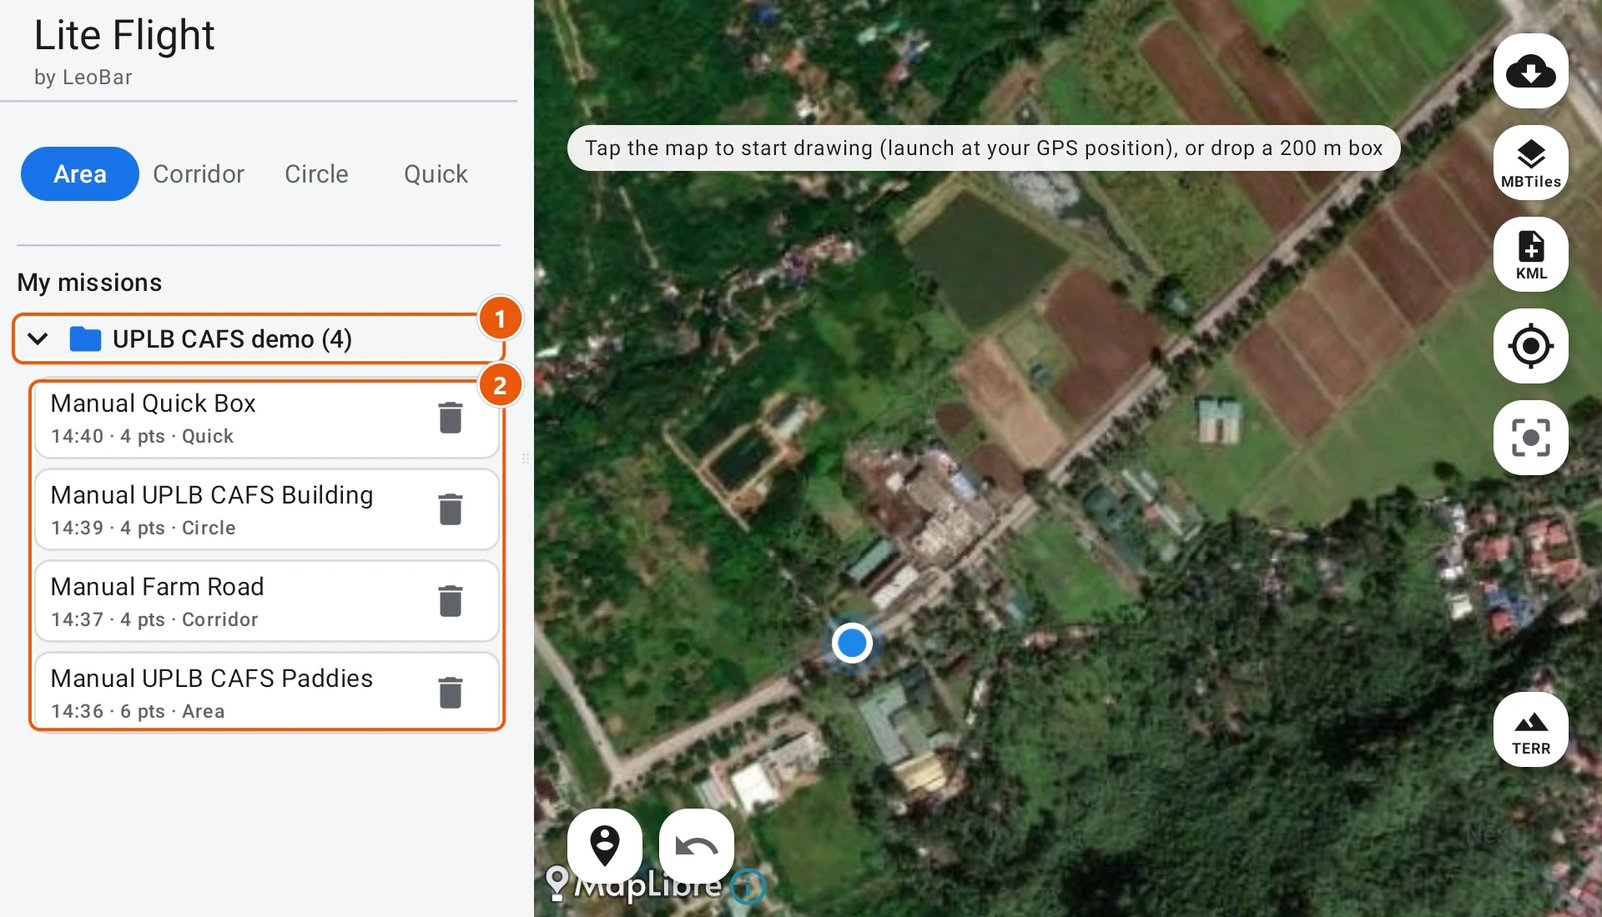
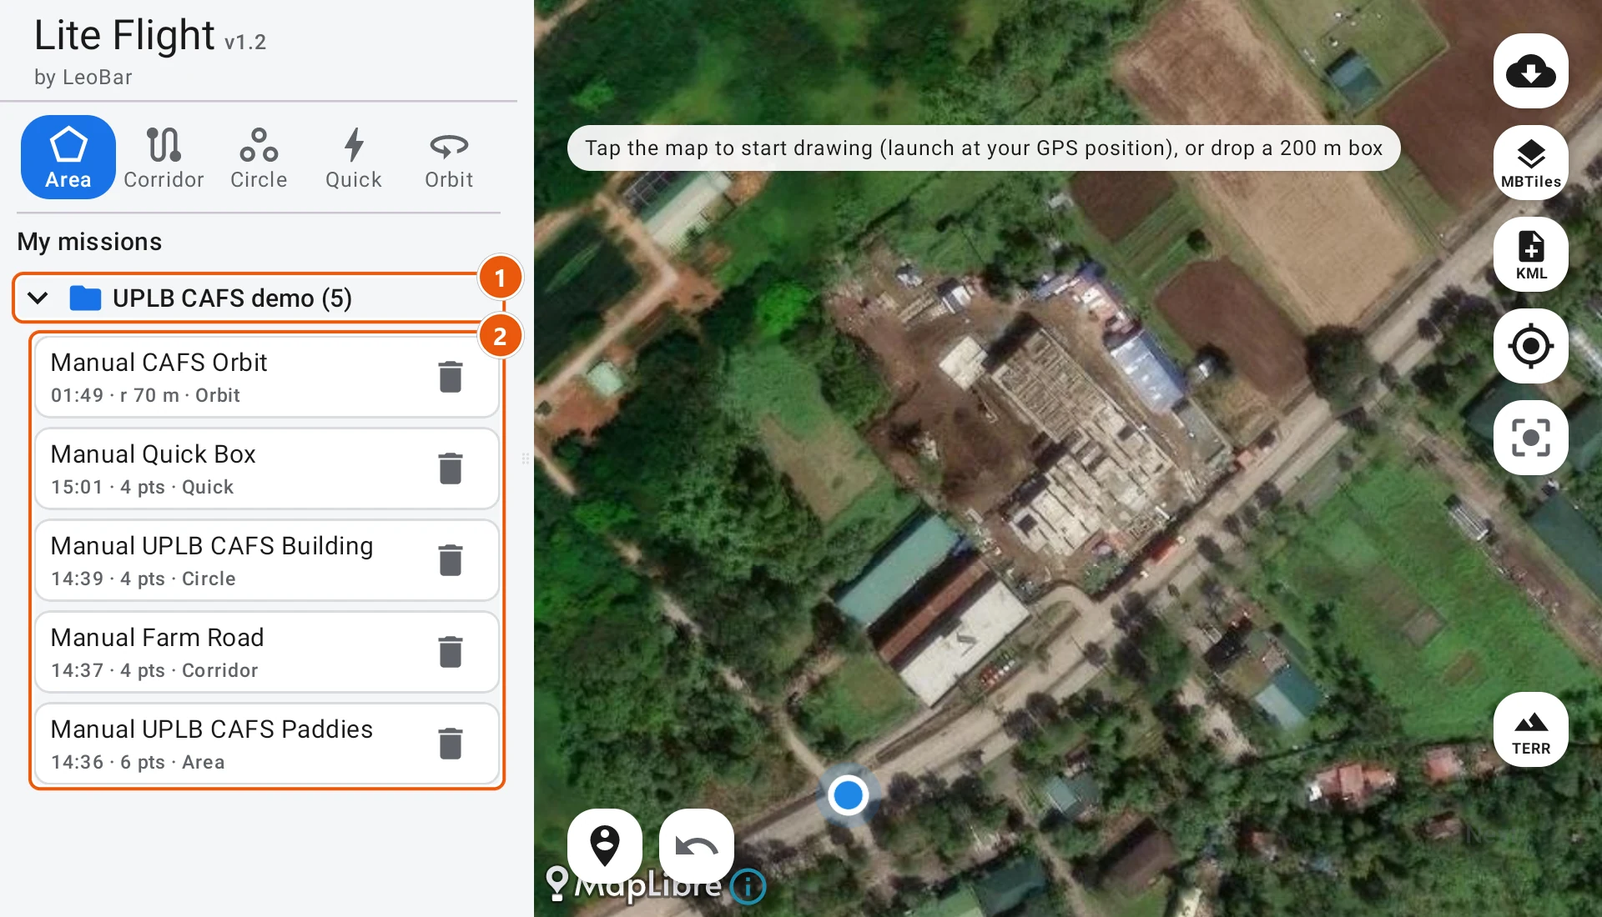
Manual v1.2: Orbit mission, fresh captures, no shutter speed or injector
Claude-Session: https://claude.ai/code/session_01RmQsJczCKex3DdNevjrH7q

diff --git a/docs/index.html b/docs/index.html
@@ -241,7 +241,7 @@ td:first-child { font-weight: 600; white-space: nowrap; }
 }
 
 /* ---- Mode cards ----------------------------------------------------- */
-.modes { display: grid; grid-template-columns: repeat(4, minmax(0, 1fr)); gap: 0.75rem; }
+.modes { display: grid; grid-template-columns: repeat(5, minmax(0, 1fr)); gap: 0.75rem; }
 .mode { background: var(--surface); border: 1px solid var(--line); border-radius: 10px; overflow: hidden; display: grid; grid-template-rows: auto 1fr; text-decoration: none; color: inherit; }
 .mode img { aspect-ratio: 16 / 10; object-fit: cover; width: 100%; height: auto; max-width: 100%; border-bottom: 1px solid var(--line); }
 .mode div { padding: 0.8rem 0.9rem 1rem; display: grid; gap: 0.25rem; align-content: start; }
@@ -259,7 +259,7 @@ footer { margin-top: 5rem; padding-top: 1.5rem; border-top: 1px solid var(--line
 /* ---- Narrow screens --------------------------------------------- */
 @media (max-width: 1100px) {
   .fig, .fig.tall { grid-template-columns: minmax(0, 1fr); }
-  .modes { grid-template-columns: repeat(2, minmax(0, 1fr)); }
+  .modes { grid-template-columns: repeat(3, minmax(0, 1fr)); }
   .flow { grid-template-columns: repeat(3, minmax(0, 1fr)); }
 }
 @media (max-width: 900px) {
@@ -298,7 +298,7 @@ footer { margin-top: 5rem; padding-top: 1.5rem; border-top: 1px solid var(--line
 <div class="getbar">
   <div class="in">
     <div class="id">
-      <p><b>Lite Flight v1.1</b> <span>· for the DJI RC Pro 2, RC 2 and Android 11+</span></p>
+      <p><b>Lite Flight v1.2</b> <span>· for the DJI RC Pro 2, RC 2 and Android 11+</span></p>
       <p class="contact"><span class="c">Inquiries: <a href="mailto:ldbarua@gmail.com">ldbarua@gmail.com</a></span><span class="sep"> · </span><span class="c">or DM on <a href="https://www.facebook.com/leonardo.barua" target="_blank" rel="noopener">Facebook</a></span></p>
     </div>
     <div class="acts">
@@ -324,14 +324,14 @@ footer { margin-top: 5rem; padding-top: 1.5rem; border-top: 1px solid var(--line
     <li><a href="#help">Troubleshooting</a></li>
     <li><a href="#rc2">DJI RC 2</a></li>
   </ol>
-  <p class="meta">Version 1.1 <span id="dl-wrap" hidden>(downloads: <span id="dl-count"></span>)</span> · captured on a DJI&nbsp;RC&nbsp;Pro&nbsp;2 (Android&nbsp;11). Demo missions are over the UPLB CAFS rice paddies in Los&nbsp;Baños, Laguna.</p>
+  <p class="meta">Version 1.2 <span id="dl-wrap" hidden>(downloads: <span id="dl-count"></span>)</span> · captured on a DJI&nbsp;RC&nbsp;Pro&nbsp;2 (Android&nbsp;11). Demo missions are over the UPLB CAFS rice paddies in Los&nbsp;Baños, Laguna.</p>
 </nav>
 
 <main>
 
 <header class="hero">
   <div>
-    <p class="eyebrow">Field manual · v1.1</p>
+    <p class="eyebrow">Field manual · v1.2</p>
     <h1>Plan mapping flights <em>offline</em>, fly them in DJI&nbsp;Fly.</h1>
     <p class="lede">Lite Flight lets you draw aerial-imaging waypoint missions on saved satellite imagery and drop them straight into DJI Fly's waypoint list. It works even off-grid.</p>
     <div class="strip">
@@ -354,7 +354,7 @@ footer { margin-top: 5rem; padding-top: 1.5rem; border-top: 1px solid var(--line
   <p>Every mission goes through the same five steps. Do the first one at home while you still have internet; the rest work anywhere.</p>
   <ol class="flow wide">
     <li><b>Save the map</b><span>Download satellite imagery and elevation for your site while online.</span></li>
-    <li><b>Draw the area</b><span>Tap corners on the map, trace a line, or drag a quick box.</span></li>
+    <li><b>Draw the area</b><span>Tap corners on the map, trace a line, drag a quick box, or circle a subject.</span></li>
     <li><b>Check settings</b><span>Pick your drone; set altitude, overlap and speed.</span></li>
     <li><b>Send to DJI Fly</b><span>Pick a DJI Fly waypoint slot. Lite Flight swaps your mission in.</span></li>
     <li><b>Fly it</b><span>Open the mission in DJI Fly, start Timed Shot, press GO.</span></li>
@@ -404,7 +404,7 @@ footer { margin-top: 5rem; padding-top: 1.5rem; border-top: 1px solid var(--line
 
   <div class="sub" id="license">
     <h3>License &amp; trial</h3>
-    <p>A new install runs as a 14-day trial with every feature on. From day 8 a reminder asks for a license each time you open the app; after day 14 the app locks until you activate. To get a license, open this screen from the red <b>Trial</b> line under the app name.</p>
+    <p>A new install runs as a 14-day trial with every feature on. For the first week only a small <i>Trial ends in …</i> line shows. From day 8 a reminder pops up asking for a license, and comes back a minute after each <b>Later</b>; after day 14 the app locks until you activate. To get a license, open this screen from the red <b>Trial</b> line under the app name.</p>
     <div class="fig wide">
       <figure class="shot"><img src="img/license.webp" width="1920" height="1100" loading="lazy" alt="The license screen with the device code blurred, a key field, and Activate and Load license file buttons."></figure>
       <ol class="legend">
@@ -619,12 +619,12 @@ footer { margin-top: 5rem; padding-top: 1.5rem; border-top: 1px solid var(--line
   <div class="ch-head">
     <p class="eyebrow">05 · Home screen</p>
     <h2>The map screen</h2>
-    <p class="lede">Lite Flight opens here. The left panel holds the mission type and your saved missions; the map holds the drawing tools.</p>
+    <p class="lede">Lite Flight opens here. The left panel holds the mission type and your saved missions; the map holds the drawing tools. The small number beside the name is the version you're running.</p>
   </div>
   <div class="fig wide">
     <figure class="shot"><img src="img/map_area_empty.webp" width="1920" height="1100" loading="lazy" alt="The map screen with numbered badges on the mode tabs, mission list, hint banner and map buttons."></figure>
     <ol class="legend">
-      <li><span><b>Mission type:</b> Area, Corridor, Circle or Quick. See <a href="#modes">Mission types</a>.</span></li>
+      <li><span><b>Mission type:</b> Area, Corridor, Circle, Quick or Orbit. See <a href="#modes">Mission types</a>.</span></li>
       <li><span><b>My missions.</b> Tap one to load it. Long-press to select several.</span></li>
       <li><span><b>Hint</b> for the next step: tap the map to start.</span></li>
       <li><span><b>Download imagery</b> for offline use.</span></li>
@@ -654,6 +654,7 @@ footer { margin-top: 5rem; padding-top: 1.5rem; border-top: 1px solid var(--line
     <a class="mode" href="#mode-corridor"><img width="640" height="400" src="img/tile_corridor.webp" alt="" loading="lazy"><div><b>Corridor</b><span>Roads, canals, rivers, fences. Parallel lines along a path you trace.</span></div></a>
     <a class="mode" href="#mode-circle"><img width="640" height="400" src="img/tile_circle.webp" alt="" loading="lazy"><div><b>Circle</b><span>Buildings and tall objects. Overlapping orbits with the camera tilted inwards.</span></div></a>
     <a class="mode" href="#mode-quick"><img width="640" height="400" src="img/tile_quick.webp" alt="" loading="lazy"><div><b>Quick</b><span>Field work in a hurry. Drag a box, rotate it, fly, with fewer settings.</span></div></a>
+    <a class="mode" href="#mode-orbit"><img width="640" height="400" src="img/tile_orbit.webp" alt="" loading="lazy"><div><b>Orbit</b><span>One building, tree or tower. Rings around it, stacked on top of each other.</span></div></a>
   </div>
 
   <!-- Area -->
@@ -670,7 +671,7 @@ footer { margin-top: 5rem; padding-top: 1.5rem; border-top: 1px solid var(--line
     </div>
     <p><b>Fix the shape.</b> Tap a corner to select it (it turns orange), then tap where it should go. Tap a purple midpoint to add a corner there.</p>
     <div class="fig wide">
-      <figure class="shot"><img src="img/sel_vertex.webp" width="1920" height="1100" loading="lazy" alt="A five-corner boundary with one corner selected in orange."></figure>
+      <figure class="shot"><img src="img/sel_vertex.webp" width="1920" height="1100" loading="lazy" alt="A six-corner boundary with one corner selected in orange."></figure>
       <ol class="legend">
         <li><span><b>Selected corner</b> (orange). Tap the map to move it.</span></li>
         <li><span><b>Midpoint</b> (purple). Tap it to add a corner.</span></li>
@@ -763,6 +764,53 @@ footer { margin-top: 5rem; padding-top: 1.5rem; border-top: 1px solid var(--line
       </ol>
     </div>
   </div>
+
+  <!-- Orbit -->
+  <div class="sub" id="mode-orbit">
+    <h3>Orbit</h3>
+    <p>Orbit circles a single subject, such as a building, a tree or a tower, with the camera facing it the whole way round. It flies several rings stacked on top of each other, so you get the subject from more than one height in one flight.</p>
+    <div class="fig wide">
+      <figure class="shot"><img src="img/orbit_draw.webp" width="1920" height="1100" loading="lazy" alt="Drawing an orbit: a dashed circle being dragged out from the centre of a building, with a live readout of r 51 m."></figure>
+      <ol class="steps">
+        <li>Choose <b>Orbit</b>.</li>
+        <li>Tap the middle of the subject. A 40&nbsp;m circle appears around it.</li>
+        <li>Or tap <b>Draw</b>, press on the subject and drag outwards. The radius shows next to your finger as you drag.</li>
+        <li>The pin button drops a circle on your launch point instead.</li>
+      </ol>
+    </div>
+    <div class="fig wide">
+      <figure class="shot"><img src="img/orbit_drawn.webp" width="1920" height="1100" loading="lazy" alt="A 70 m orbit around the UPLB CAFS building, with numbered size label, move handle, resize handle, Redraw, Save and Next."></figure>
+      <ol class="legend">
+        <li><span><b>Radius and diameter</b> of the orbit, and where the launch point is.</span></li>
+        <li><span><b>Move handle.</b> Drag it to move the whole circle.</span></li>
+        <li><span><b>Resize handle.</b> Drag it in or out; the radius shows while you drag.</span></li>
+        <li><span><b>Redraw</b> starts a new circle.</span></li>
+        <li><span><b>Save</b> to My missions.</span></li>
+        <li><span><b>Next.</b></span></li>
+      </ol>
+    </div>
+    <div class="fig solo wide">
+      <figure class="shot"><img src="img/config_orbit_map.webp" width="1920" height="1100" loading="lazy" alt="The orbit mission on the settings screen: the orange flight path around the building, the launch point and the last waypoint."><figcaption><b>①</b> launch point · <b>②</b> move · <b>③</b> resize · <b>④</b> last waypoint (red). The handles work on this screen too.</figcaption></figure>
+    </div>
+    <div class="fig tall wide">
+      <figure class="shot"><img width="690" height="2734" src="img/panel_orbit.webp" loading="lazy" alt="Orbit settings with eleven numbered rows."></figure>
+      <ol class="legend">
+        <li><span><b>Flight summary.</b> See <a href="#settings">settings</a>.</span></li>
+        <li><span><b>Altitude mode.</b> <i>Take Off</i> stacks the rings above the launch point. <i>Ground</i> follows the terrain round the circle (see <a href="#terrain">Terrain follow</a>).</span></li>
+        <li><span><b>Lowest ring</b> height. The first ring is flown here; the others are above it.</span></li>
+        <li><span><b>Target GSD</b>, linked to the height as in the other types.</span></li>
+        <li><span><b>Drone speed.</b> The grey line says how long one ring takes and how many photos that gives at a 2&nbsp;s Timed Shot.</span></li>
+        <li><span><b>Auto camera angle.</b> On: the camera points at the centre of the orbit from each ring, so the higher rings look down more steeply. Off: you set one angle (65° to start) and it's held for every ring.</span></li>
+        <li><span><b>Circle radius</b>, 5 to 500&nbsp;m. Same as dragging the resize handle.</span></li>
+        <li><span><b>Waypoints per circle.</b> More points turn the camera more smoothly round the subject but use more of the waypoint budget.</span></li>
+        <li><span><b>Number of rings</b>, 3 by default, up to 20. The green buttons step by 5.</span></li>
+        <li><span><b>Vertical distance between rings</b>, 10&nbsp;m by default. The grey line shows the height of the top ring.</span></li>
+        <li><span><b>Upon signal loss.</b> As in the other types.</span></li>
+      </ol>
+    </div>
+    <div class="note"><span class="tag">How it climbs between rings</span><p>The drone doesn't stop between rings. Stopping, climbing straight up and speeding up again wastes battery, so when a ring is done it keeps going round and climbs on a gentle slope to the next one, then flies that ring level. The climb is spread over just enough of the circle to stay at about 1.5&nbsp;m/s, so the drone holds its speed. With Auto camera angle on, the camera tilts to the next ring's angle during the climb.</p><p>In <i>Take Off</i> mode the drone only climbs to the lowest ring's height before it sets off, not the top one. In <i>Ground</i> mode it climbs to the highest point of the mission first, to be safe over uneven ground.</p></div>
+    <div class="note warn"><span class="tag">Check what's around the subject</span><p>The camera aims at the ground in the middle of the circle. For a tall subject, pick a radius that clears it and anything next to it at every ring height, and remember the top ring is the highest point of the flight.</p></div>
+  </div>
 </section>
 
 <!-- ============================================================= -->
@@ -774,17 +822,16 @@ footer { margin-top: 5rem; padding-top: 1.5rem; border-top: 1px solid var(--line
   </div>
   <div class="note"><span class="tag">The plus and minus buttons</span><p>The <b>black − / +</b> buttons change a value by a small step; the <b style="color:var(--go)">green − / +</b> buttons change it by a big step (10&nbsp;m of altitude, 1&nbsp;m/s of speed). You can also tap the number and type a value.</p></div>
   <div class="fig tall wide">
-    <figure class="shot"><img src="img/panel_area.webp" width="690" height="2617" loading="lazy" alt="The full Area settings panel with fourteen numbered rows."></figure>
+    <figure class="shot"><img src="img/panel_area.webp" width="690" height="2493" loading="lazy" alt="The full Area settings panel with thirteen numbered rows."></figure>
     <ol class="legend">
       <li><span><b>Flight summary:</b> flight time · distance · area · waypoint count. Time includes flying out from the launch point and back.</span></li>
       <li><span><b>Camera model.</b> Pick your drone. It sets the sensor maths and the top speed.</span></li>
       <li><span><b>Altitude mode.</b> <i>Take Off</i> flies a fixed height above the launch point. <i>Ground</i> follows the terrain (see below).</span></li>
       <li><span><b>Target altitude</b> in metres. <span class="hint">Higher = faster flights, coarser detail.</span></span></li>
       <li><span><b>Target GSD.</b> Type the detail you want and the altitude adjusts to match. <span class="hint">2.9&nbsp;cm/px at 80&nbsp;m on a Mini 5 Pro.</span></span></li>
-      <li><span><b>Drone speed.</b> The grey line below it is the Timed Shot interval to set in DJI Fly. <span class="hint">Turns red if you'd need shots faster than every 2&nbsp;s; slow down as it suggests.</span></span></li>
+      <li><span><b>Drone speed.</b> The mission flies at exactly this speed. Set the shutter in DJI Fly's camera settings; a fast shutter (1/1000&nbsp;s or quicker) keeps photos sharp. The grey line below it is the Timed Shot interval to set in DJI Fly. <span class="hint">Turns red if you'd need shots faster than every 2&nbsp;s; slow down as it suggests.</span></span></li>
       <li><span><b>Front overlap.</b> 80&nbsp;% for most mapping.</span></li>
       <li><span><b>Side overlap.</b> 70–75&nbsp;%. Higher means more lines.</span></li>
-      <li><span><b>Shutter speed</b> you'll use. A slower shutter lowers the top speed so photos aren't blurred.</span></li>
       <li><span><b>Camera angle</b> in degrees below the horizon. 90 is straight down; 75 cuts the “bowl” error in 3D models.</span></li>
       <li><span><b>Grid orientation.</b> Auto picks the line direction from the boundary. Switch it off to set your own angle.</span></li>
       <li><span><b>Upon signal loss.</b> Off: the drone stops the mission and does what DJI Fly is set to do when the signal is lost (usually return home). On: it finishes the mission first.</span></li>
@@ -883,10 +930,10 @@ footer { margin-top: 5rem; padding-top: 1.5rem; border-top: 1px solid var(--line
     <h3>Send several at once</h3>
     <p>From <b>My missions</b>, long-press a mission, tick the others (or tick a whole group), and tap the send arrow.</p>
     <div class="fig wide">
-      <figure class="shot"><img src="img/send_many.webp" width="1920" height="1100" loading="lazy" alt="Send 4 missions to DJI Fly, each mission paired with a slot number."></figure>
+      <figure class="shot"><img src="img/send_many.webp" width="1920" height="1100" loading="lazy" alt="Send 3 missions to DJI Fly, each mission paired with a slot number."></figure>
       <ol class="legend">
         <li><span><b>Status:</b> Shizuku, or DJI Fly Refresher.</span></li>
-        <li><span><b>Slots available.</b> You need one per mission.</span></li>
+        <li><span><b>Slots available.</b> You need one per mission. With too few, the line turns red; drop missions with <b>×</b> or make more placeholder missions in DJI Fly.</span></li>
         <li><span><b>→ No.&nbsp;N</b> is the slot each mission goes to. Tap it to choose another.</span></li>
         <li><span><b>×</b> leaves that mission out of this batch.</span></li>
         <li><span><b>Send</b> fills every slot. Then <b>Clear cache &amp; open DJI Fly</b> (Shizuku) or <b>Refresh &amp; open DJI Fly</b> (Refresher) hands over to DJI Fly.</span></li>
@@ -903,7 +950,7 @@ footer { margin-top: 5rem; padding-top: 1.5rem; border-top: 1px solid var(--line
     <p class="lede">Saved missions keep their shape and every setting. Groups keep a site or a client's jobs together.</p>
   </div>
   <div class="fig wide">
-    <figure class="shot"><img src="img/save_dialog.webp" width="1920" height="1100" loading="lazy" alt="The Save mission dialog named Manual UPLB CAFS Paddies."></figure>
+    <figure class="shot"><img src="img/save_dialog.webp" width="1920" height="1100" loading="lazy" alt="The Save mission dialog named Manual CAFS Orbit."></figure>
     <ol class="legend">
       <li><span><b>Name.</b> It's also the name DJI Fly shows on the slot, so make it something you'll recognise in the field.</span></li>
       <li><span><b>Save</b> adds it to My missions.</span></li>
@@ -945,7 +992,6 @@ footer { margin-top: 5rem; padding-top: 1.5rem; border-top: 1px solid var(--line
       <li><span><b>File name</b> of the exported <code>.kmz</code>.</span></li>
       <li><span><b>Save to Downloads</b> puts a copy in <code>Download/LiteFlight</code>.</span></li>
       <li><span><b>Load KMZ</b> adds DJI mission files from elsewhere to the list.</span></li>
-      <li><span><b>Mission Injector</b> hands the file to the phone app Lite Flight 1.0 used for the DJI RC&nbsp;2. With 1.1 you don't need it; see <a href="#rc2">Missions on the DJI RC&nbsp;2</a>.</span></li>
       <li><span><b>Home</b> returns to the map.</span></li>
       <li><span><b>Missions</b> ready to send. Tap one to select it.</span></li>
       <li><span><b>DJI Fly slots.</b> Tap one to send the selected mission.</span></li>
@@ -982,7 +1028,7 @@ footer { margin-top: 5rem; padding-top: 1.5rem; border-top: 1px solid var(--line
   <div class="ch-head">
     <p class="eyebrow">12 · DJI RC 2</p>
     <h2>Missions on the DJI RC&nbsp;2</h2>
-    <p class="lede">With Lite Flight 1.1 the RC&nbsp;2 works on its own, with no phone or cable. Lite Flight sends missions straight into DJI Fly's slots, and DJI Fly Refresher makes DJI Fly show them. Out of the box, though, the RC&nbsp;2 can't install apps. <b>FreeFCC's helper apps come first</b>; everything else builds on them.</p>
+    <p class="lede">Since Lite Flight 1.1 the RC&nbsp;2 works on its own, with no phone or cable. Lite Flight sends missions straight into DJI Fly's slots, and DJI Fly Refresher makes DJI Fly show them. Out of the box, though, the RC&nbsp;2 can't install apps. <b>FreeFCC's helper apps come first</b>; everything else builds on them.</p>
   </div>
 
   <div class="fig wide">
@@ -994,7 +1040,7 @@ footer { margin-top: 5rem; padding-top: 1.5rem; border-top: 1px solid var(--line
         <li>A <b>microSD card</b>. It gets formatted, so copy off anything on it first.</li>
         <li>A computer or phone that can copy files onto the card.</li>
         <li><b>FreeFCC's helper apps:</b> <a href="https://freefcc.pages.dev/downloads/freefcc-helpers.zip"><code>freefcc-helpers.zip</code></a>.</li>
-        <li><code>LiteFlight_v1.1.apk</code> and <code>DJI-Fly-Refresher-v1.1.apk</code> from the <a href="https://github.com/leobarua/liteflight/releases/latest">download page</a>.</li>
+        <li><code>LiteFlight_v1.2.apk</code> and <code>DJI-Fly-Refresher-v1.1.apk</code> from the <a href="https://github.com/leobarua/liteflight/releases/latest">download page</a>.</li>
       </ul>
     </div>
   </div>
@@ -1038,7 +1084,7 @@ footer { margin-top: 5rem; padding-top: 1.5rem; border-top: 1px solid var(--line
     <ol class="steps">
       <li>Take the card out and put it in your computer (or a card reader).</li>
       <li>Extract <code>freefcc-helpers.zip</code>.</li>
-      <li>Copy <code>LiteFlight_v1.1.apk</code> and <code>DJI-Fly-Refresher-v1.1.apk</code> into the extracted folder.</li>
+      <li>Copy <code>LiteFlight_v1.2.apk</code> and <code>DJI-Fly-Refresher-v1.1.apk</code> into the extracted folder.</li>
       <li>Copy that whole folder onto the card, then put the card back into the RC&nbsp;2.</li>
     </ol>
   </div>
@@ -1089,7 +1135,7 @@ footer { margin-top: 5rem; padding-top: 1.5rem; border-top: 1px solid var(--line
       <ol class="steps">
         <li>Swipe to open <b>ATV Launcher</b>, then open <b>Files</b> <span class="mono">①</span>.</li>
         <li>Go to your folder on the card.</li>
-        <li>Tap <code>LiteFlight_v1.1.apk</code> and install it.</li>
+        <li>Tap <code>LiteFlight_v1.2.apk</code> and install it.</li>
         <li>Tap <code>DJI-Fly-Refresher-v1.1.apk</code> and install it.</li>
         <li><b>Lite Flight</b> <span class="mono">②</span> and <b>DJI Fly Refresher</b> <span class="mono">③</span> now sit in the launcher next to <b>DJI Fly</b> <span class="mono">④</span>.</li>
       </ol>
@@ -1155,7 +1201,7 @@ footer { margin-top: 5rem; padding-top: 1.5rem; border-top: 1px solid var(--line
   <details class="faq"><summary>DJI Fly on the RC&nbsp;2 still shows the old picture</summary><p>The route has already been replaced. Open DJI Fly Refresher (or use its swipe) to refresh it.</p></details>
 
   <footer>
-    Lite Flight 1.1 by LeoBar. Screens captured on a DJI RC Pro 2 and a DJI RC 2; device code, contact address, network name and address, and device name are blurred. Demo missions are over the UPLB CAFS experimental paddies in Los Baños, Laguna. Imagery: Esri World Imagery. RC&nbsp;2 setup steps follow FreeFCC's guide (github.com/doesthings/FreeFCC).
+    Lite Flight 1.2 by LeoBar. Screens captured on a DJI RC Pro 2 and a DJI RC 2; device code, contact address, network name and address, and device name are blurred. Demo missions are over the UPLB CAFS experimental paddies in Los Baños, Laguna. Imagery: Esri World Imagery. RC&nbsp;2 setup steps follow FreeFCC's guide (github.com/doesthings/FreeFCC).
   </footer>
 </section>
 

diff --git a/README.md b/README.md
@@ -2,7 +2,7 @@
 
 Lite Flight lets you draw aerial-imaging waypoint missions on saved satellite imagery and drop them straight into DJI Fly's waypoint list. It works even off-grid.
 
-- Built for the DJI RC Pro 2 and Android 11+ smartphones on DJI RC-N2/RC-N3 controllers. Also works with the DJI RC 2 through a companion app on an Android device connected by OTG.
+- Built for the DJI RC Pro 2 and Android 11+ smartphones on DJI RC-N2/RC-N3 controllers. Also works on the original DJI RC Pro, and on the DJI RC 2 once FreeFCC's helper apps are installed (see the manual's DJI RC 2 chapter).
 - Compatible with current-generation DJI drones: Mini 4 Pro · Mini 5 Pro · Air 3S · Mavic 4 Pro
 
 ## Download
@@ -13,7 +13,7 @@ New installs run as a 14-day trial. To get a license, email the device code show
 
 ## Manual
 
-Read the illustrated user manual at **<https://leobarua.github.io/liteflight/>** (source in [`docs/`](docs/)). It covers offline imagery, drawing missions, mission settings, Shizuku setup and sending missions to DJI Fly.
+Read the illustrated user manual at **<https://leobarua.github.io/liteflight/>** (source in [`docs/`](docs/)). It covers offline imagery, the five mission types (Area, Corridor, Circle, Quick and Orbit), mission settings, Shizuku setup and sending missions to DJI Fly.
 
 ## DJI Fly Refresher
 
